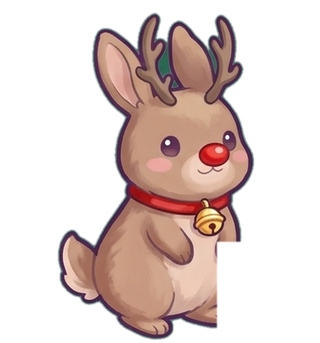
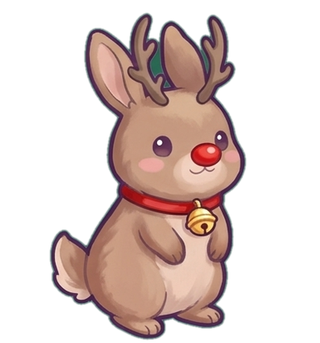
docs: the reindeer rabbit cut whole (the rabbit cutter masks a corner the Antigravity sheet does not have)

Changed region(s): [[0.1562, 0.0292, 0.8125, 0.9913]]

diff --git a/docs/de-xuat-8.md b/docs/de-xuat-8.md
@@ -33,3 +33,5 @@ Trung thu theo âm lịch thực tế rơi trong tháng 9 hoặc đầu tháng 1
 - [ ] Ba khoảng ngày.
 - [ ] Ba cách gặp và giá 120 cà rốt vàng khi ghé tiệm.
 - [ ] Nhiệm vụ mùa thưởng 3/5/10 cà rốt vàng.
+
+Ghi chú cắt hình: `cat-tam-tho.py` xoá góc dưới phải 190×190 (dấu của trình tạo ảnh cũ); tấm vẽ bằng Antigravity không có dấu đó nên phải bỏ hai dòng `[H - 190:, W - 190:]` trước khi cắt, nếu không con ở ô cuối bị khuyết (đã gặp với Thỏ Tuần Lộc).
